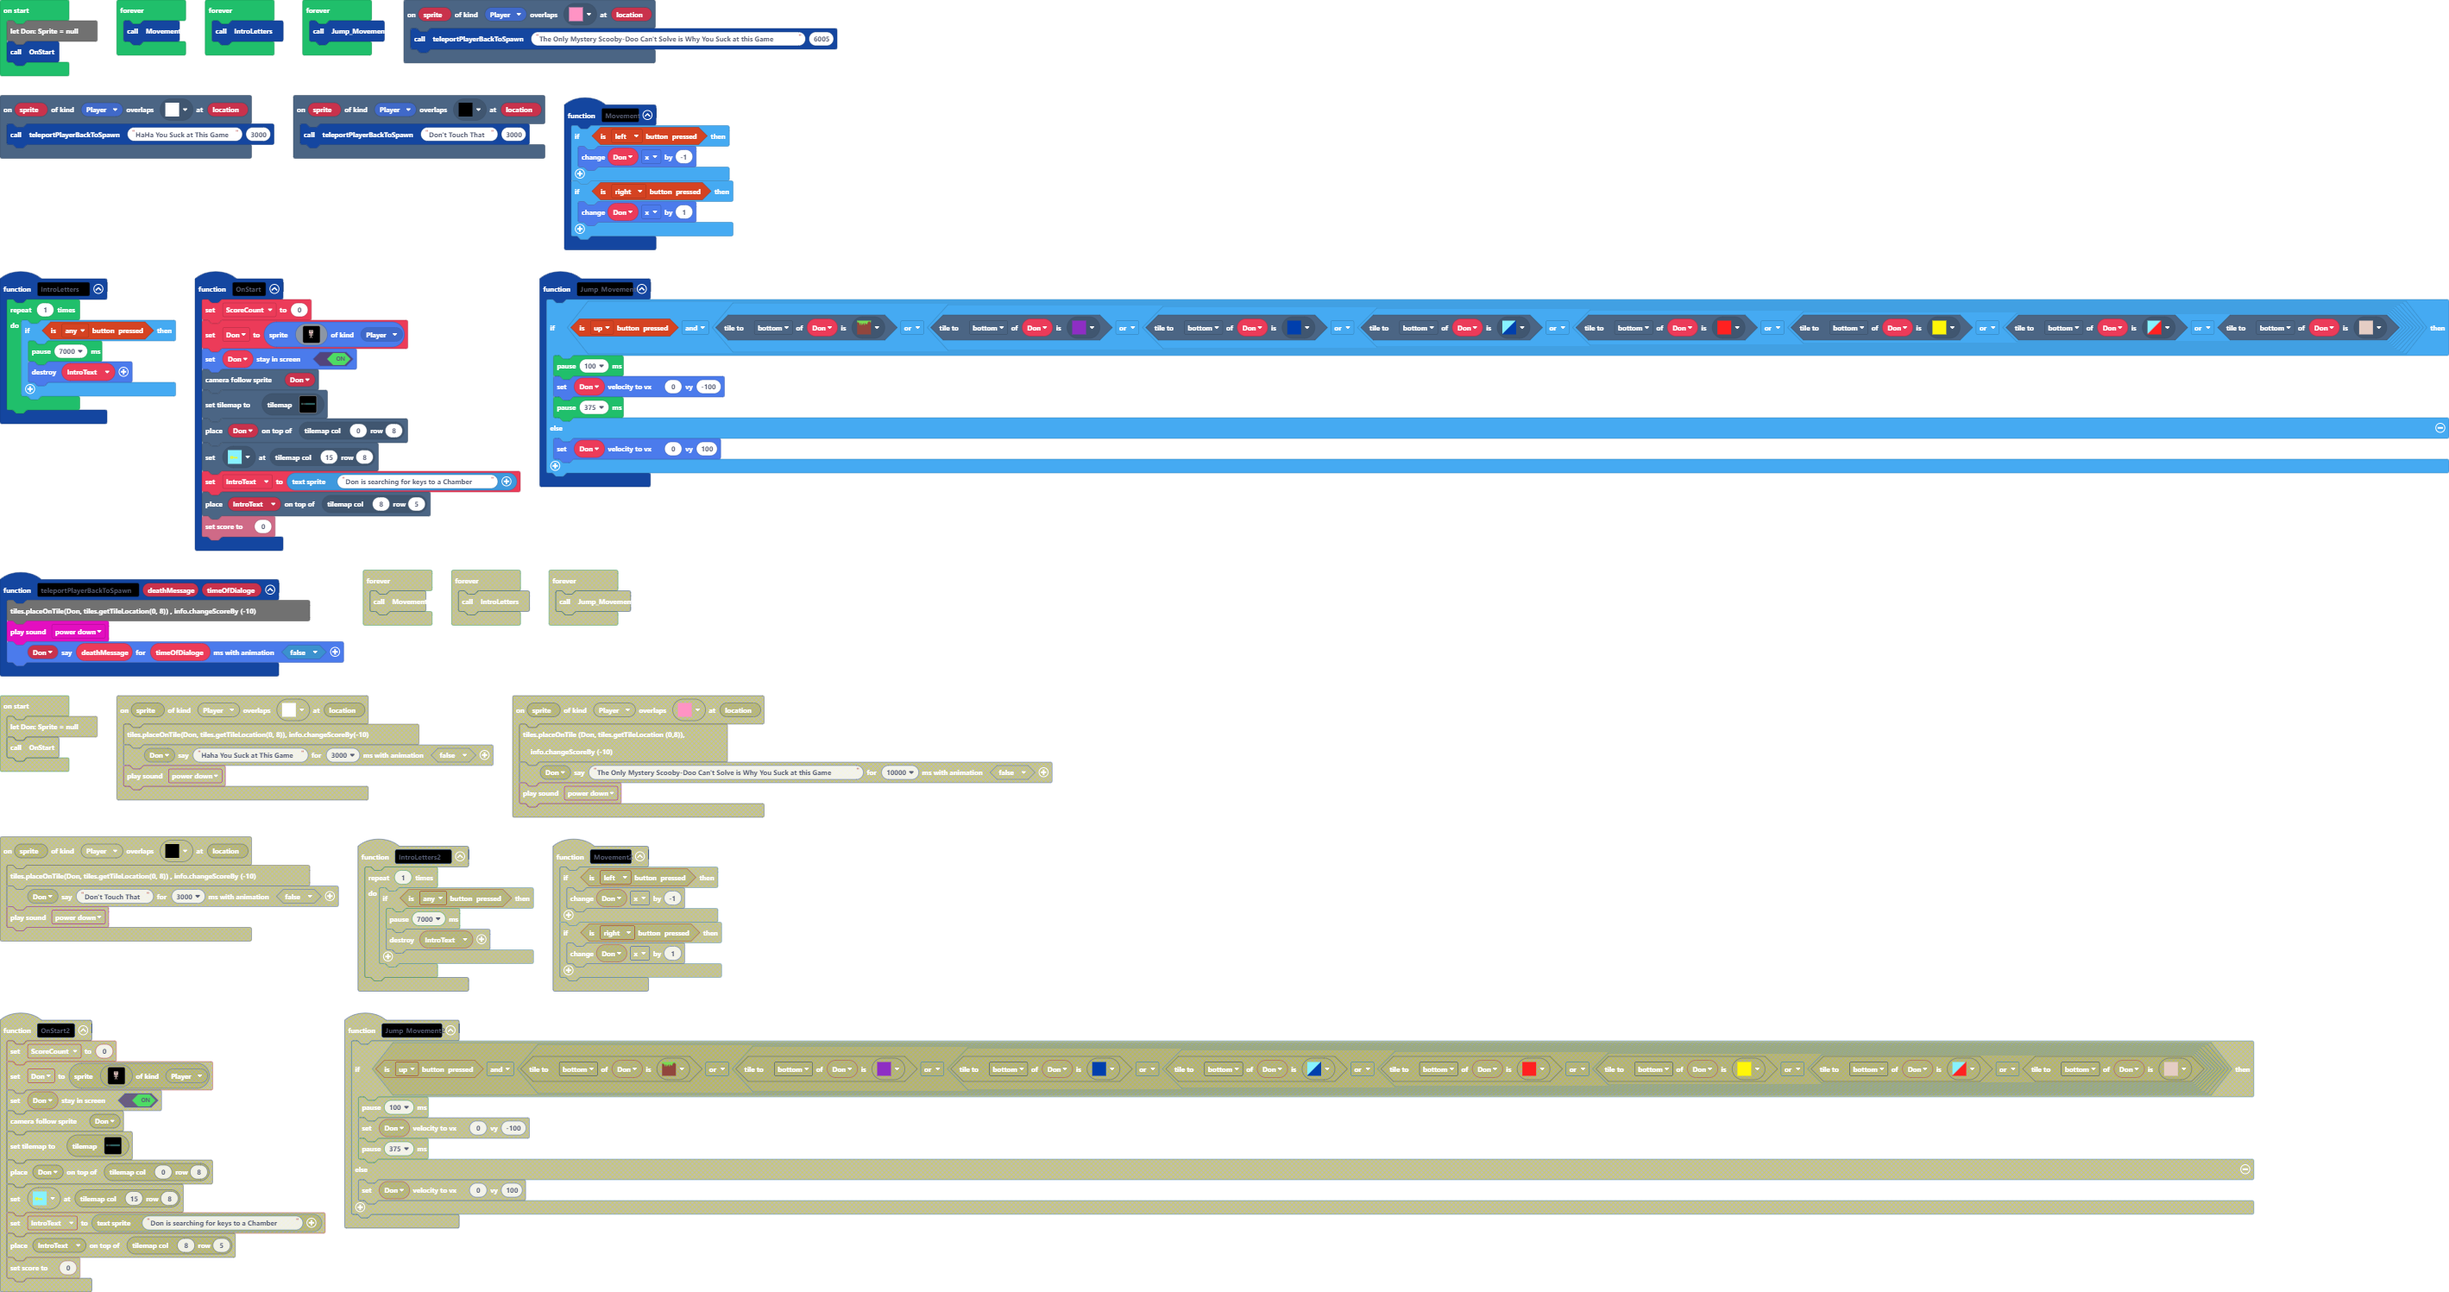
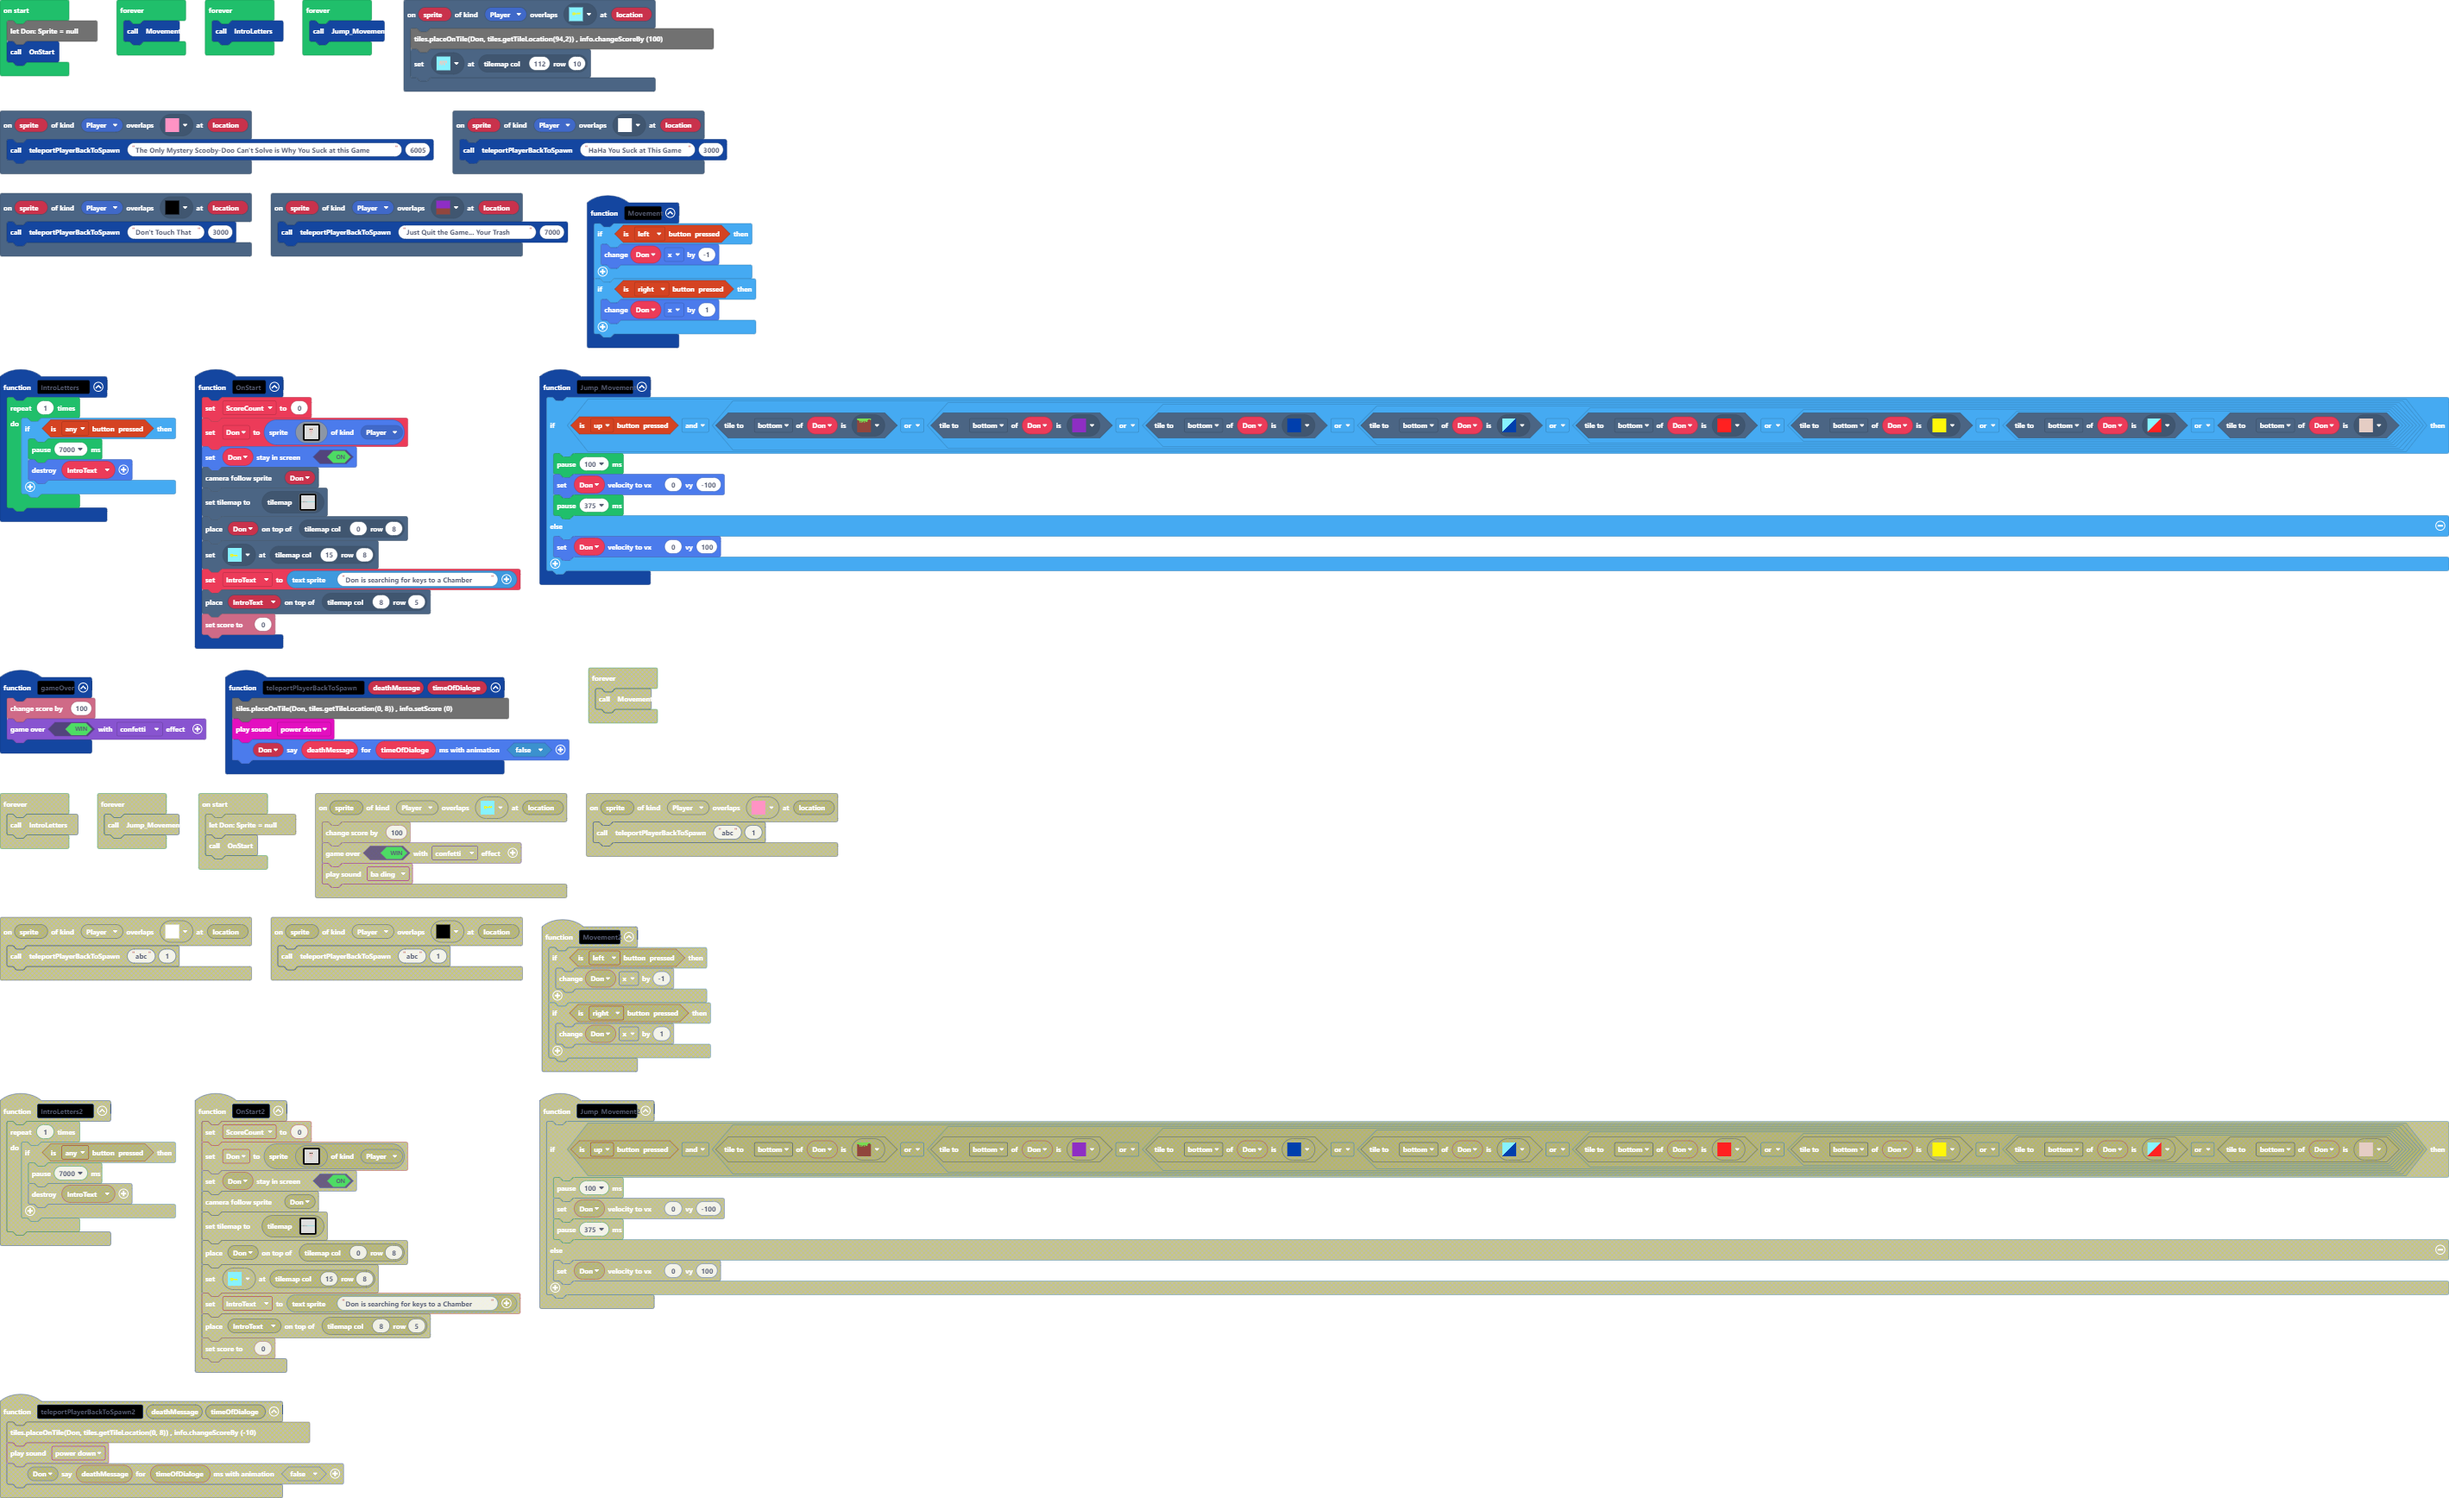
Update pxt.json, main.blocks, main.ts, tilemap.g.jres, tilemap.g.ts

diff --git a/tilemap.g.ts b/tilemap.g.ts
@@ -7,8 +7,6 @@ namespace myTiles {
     //% fixedInstance jres blockIdentity=images._tile
     export const tile2 = image.ofBuffer(hex``);
     //% fixedInstance jres blockIdentity=images._tile
-    export const tile3 = image.ofBuffer(hex``);
-    //% fixedInstance jres blockIdentity=images._tile
     export const tile4 = image.ofBuffer(hex``);
     //% fixedInstance jres blockIdentity=images._tile
     export const tile5 = image.ofBuffer(hex``);
@@ -44,6 +42,10 @@ namespace myTiles {
     export const tile20 = image.ofBuffer(hex``);
     //% fixedInstance jres blockIdentity=images._tile
     export const tile21 = image.ofBuffer(hex``);
+    //% fixedInstance jres blockIdentity=images._tile
+    export const tile22 = image.ofBuffer(hex``);
+    //% fixedInstance jres blockIdentity=images._tile
+    export const tile3 = image.ofBuffer(hex``);
 
     helpers._registerFactory("tilemap", function(name: string) {
         switch(helpers.stringTrim(name)) {
@@ -218,25 +220,6 @@ namespace myTiles {
 . . . . . . . . . . . . . . . . 
 . . . . . . . . . . . . . . . . 
 `, [myTiles.transparency16], TileScale.Sixteen);
-            case "World102":
[1 lines of base64/hex data omitted]
-.........2222222222222222222222222222222222222222222222222222222222222222222222222222222.......................................................................................................................................................................
-.........22....2222222222222222222222222222222222222222222222222222222222222222222222222.......................................................................................................................................................................
-.........2.....2222222222222222222222222222222222222222222222222222222222222222222222222.......................................................................................................................................................................
-.........2.222.2222222222222222222222222222222222222222222222222222222222222222222222222.......................................................................................................................................................................
-.........2..22.22222222222222222..........................222222..................222222.......................................................................................................................................................................
-.........22.2..22222222222222222..........2...............222222.................2222222.......................................................................................................................................................................
-.....222.2..2.222222222222222222......22..2.........2.....222222.................2222222.......................................................................................................................................................................
-....2222...2....2222222222222222....2.22.22..2......2.....222222...........22..222222222.......................................................................................................................................................................
-...22222..22..2.2222222222222222222222222222222222222..22222222222.......2.22..222222222.......................................................................................................................................................................
-222222222222222222222222222222222222222222222222222222222222222222....2..2.22..222222222.......................................................................................................................................................................
-222222222222222222222222222222222222222222222222222222222222222222....2.22.22..222222222.......................................................................................................................................................................
-222222222222222222222222222222222222222222222222222222222222222222...22.22.22..222222222.......................................................................................................................................................................
-................22222222222222222222222222222222222222222222222222...22.22.22..222222222.......................................................................................................................................................................
-...........2....222222222222222222222222222222222222222222222222222222222222222222222222.......................................................................................................................................................................
-222..2..2..2....222222222222222222222222222222222222222222222222222222222222222222222222.......................................................................................................................................................................
-...222..2222..22222222222222222222222222222222222222222222222222222222222222222222222222.......................................................................................................................................................................
-`, [myTiles.transparency16,myTiles.tile1,myTiles.tile4,myTiles.tile5,myTiles.tile6,myTiles.tile8,myTiles.tile9,myTiles.tile10,myTiles.tile11,myTiles.tile12,myTiles.tile14,myTiles.tile17,myTiles.tile19,myTiles.tile21], TileScale.Sixteen);
             case "level11":
             case "level11":return tiles.createTilemap(hex`1000100000000000000000000000000000000000000000000000000000000000000000000000000000000000000000000000000000000000000000000000000000000000000000000000000000000000000000000000000000000000000000000000000000000000000000000000000000000000000000000000000000000000000000000000000000000000000000000000000000000000000000000000000000000000000000000000000000000000000000000000000000000000000000000000000000000000000000000000000000000000000000000000000000000000000000000000000000000000000000000000000000000000000000000000000000000000`, img`
 . . . . . . . . . . . . . . . . 
@@ -256,6 +239,25 @@ namespace myTiles {
 . . . . . . . . . . . . . . . . 
 . . . . . . . . . . . . . . . . 
 `, [myTiles.transparency16], TileScale.Sixteen);
+            case "World102":
[1 lines of base64/hex data omitted]
+.........2222222222222222222222222222222222222222222222222222222222222222222222222222222222222...................222222........................................................................................................................................
+.........22....2222222222222222222222222222222222222222222222222222222222222222222222222222222...................222222........................................................................................................................................
+.........2.....2222222222222222222222222222222222222222222222222222222222222222222222222222222...................222222........................................................................................................................................
+.........2.222.222222222222222222222222222222222222222222222222222222222222222222222222222222222222..............222222........................................................................................................................................
+.........2..22.22222222222222222..........................222222..................222222222222222222.............222222........................................................................................................................................
+.........22.2..22222222222222222..........2...............222222.................22222222222222222222............222222........................................................................................................................................
+.....222.2..2.222222222222222222......22..2.........2.....222222.................222222222222222222222...........222222........................................................................................................................................
+....2222...2....2222222222222222....2.22.22..2......2.....222222...........22..22222222222222222222222...........222222........................................................................................................................................
+...22222..22..2.2222222222222222222222222222222222222..22222222222.......2.22..22222222222222222222222...........222222........................................................................................................................................
+222222222222222222222222222222222222222222222222222222222222222222....2..2.22..22222222222222222222222...........222222........................................................................................................................................
+222222222222222222222222222222222222222222222222222222222222222222....2.22.22..22222222222222222222222...........222222........................................................................................................................................
+222222222222222222222222222222222222222222222222222222222222222222...22.22.22..22222222222222222222222.......2.22222222........................................................................................................................................
+................22222222222222222222222222222222222222222222222222...22.22.22..22222222222222222222222......22222222222........................................................................................................................................
+...........2....22222222222222222222222222222222222222222222222222222222222222222222222222222222222222...22222222222222........................................................................................................................................
+222..2..2..2....2222222222222222222222222222222222222222222222222222222222222222222222222222222222222222222222222222222........................................................................................................................................
+...222..2222..222222222222222222222222222222222222222222222222222222222222222222222222222222222222222222222222222222222........................................................................................................................................
+`, [myTiles.transparency16,myTiles.tile1,myTiles.tile4,myTiles.tile5,myTiles.tile6,myTiles.tile8,myTiles.tile9,myTiles.tile10,myTiles.tile11,myTiles.tile12,myTiles.tile14,myTiles.tile17,myTiles.tile19,myTiles.tile21,myTiles.tile22], TileScale.Sixteen);
         }
         return null;
     })
@@ -267,8 +269,6 @@ namespace myTiles {
             case "tile1":return tile1;
             case "Blank":
             case "tile2":return tile2;
-            case "heart key":
-            case "tile3":return tile3;
             case "myTile":
             case "tile4":return tile4;
             case "myTile0":
@@ -305,6 +305,10 @@ namespace myTiles {
             case "tile20":return tile20;
             case "PinkDanger":
             case "tile21":return tile21;
+            case "PurpleDanger":
+            case "tile22":return tile22;
+            case "degradingBrain":
+            case "tile3":return tile3;
         }
         return null;
     })

diff --git a/main.ts b/main.ts
@@ -22,17 +22,25 @@ function Jump_Movement () {
     }
 }
 scene.onOverlapTile(SpriteKind.Player, assets.tile`Key4`, function (sprite, location) {
-    info.changeScoreBy(100)
-    game.over(true, effects.confetti)
+    tiles.placeOnTile(Don, tiles.getTileLocation(94,2)) , info.changeScoreBy (100)
+    tiles.setTileAt(tiles.getTileLocation(112, 10), assets.tile`degradingBrain`)
+    Don.sayText("The longer you live, the more you realize that in this reality only pain, suffering and futility exist", 7000, false)
     music.baDing.play()
 })
+function gameOver () {
+    info.changeScoreBy(100)
+    game.over(true, effects.confetti)
+}
 function teleportPlayerBackToSpawn (deathMessage: string, timeOfDialoge: number) {
-    tiles.placeOnTile(Don, tiles.getTileLocation(0, 8)) , info.changeScoreBy (-10)
+    tiles.placeOnTile(Don, tiles.getTileLocation(0, 8)) , info.setScore (0)
 music.powerDown.play()
     Don.sayText(deathMessage, timeOfDialoge, false)
 }
 scene.onOverlapTile(SpriteKind.Player, assets.tile`PinkDanger`, function (sprite, location) {
     teleportPlayerBackToSpawn("The Only Mystery Scooby-Doo Can't Solve is Why You Suck at this Game", 6005)
+})
+scene.onOverlapTile(SpriteKind.Player, assets.tile`PurpleDanger`, function (sprite, location) {
+    teleportPlayerBackToSpawn("Just Quit the Game... Your Trash", 7000)
 })
 scene.onOverlapTile(SpriteKind.Player, assets.tile`Key1`, function (sprite, location) {
     tiles.placeOnTile(Don, tiles.getTileLocation(0, 13))
